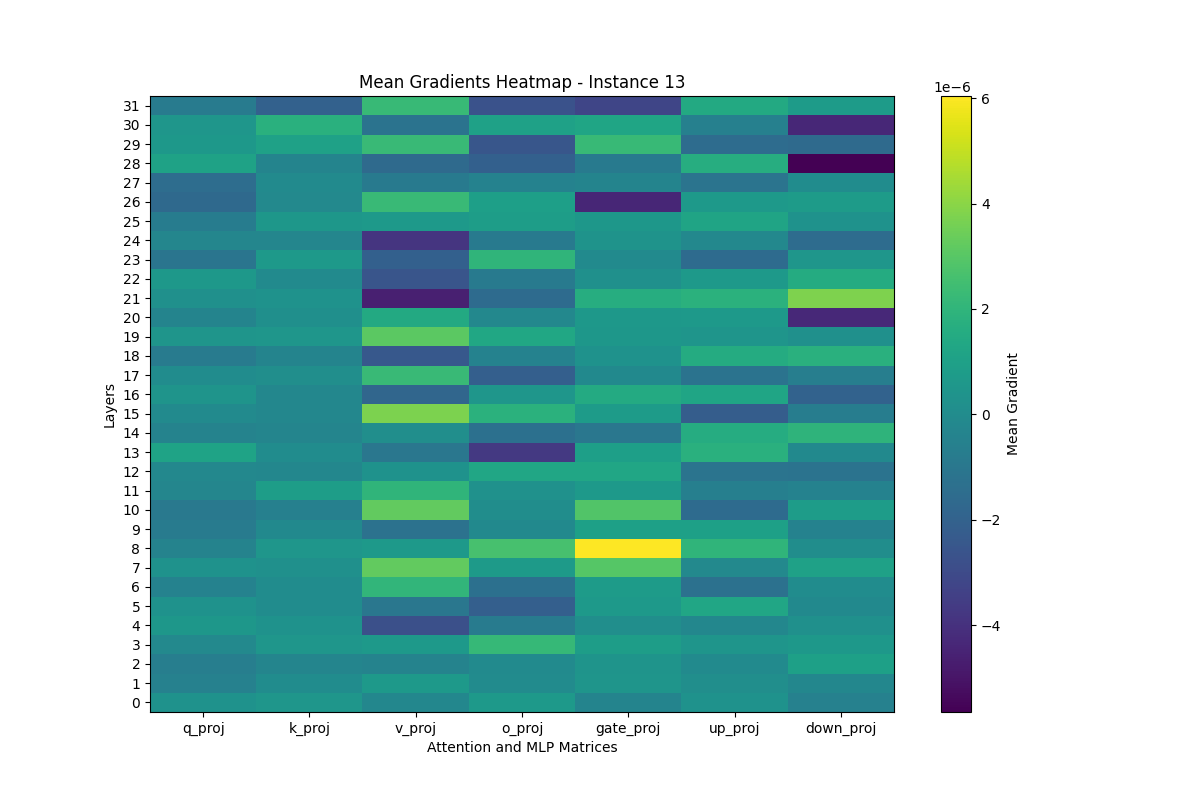
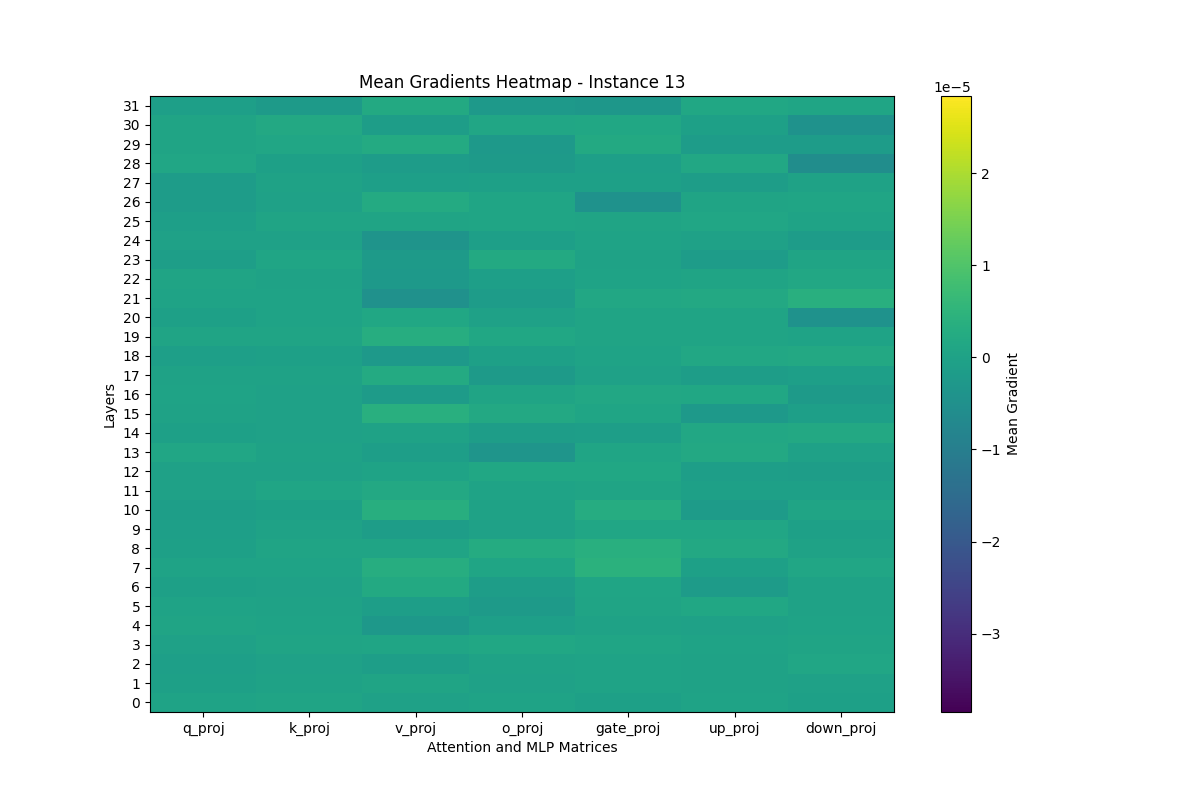
100 HEATMAPS

diff --git a/olmo2_loss_contribution.py b/olmo2_loss_contribution.py
@@ -18,7 +18,7 @@ model = AutoModelForCausalLM.from_pretrained(
 dataset = load_dataset("lighteval/MATH", trust_remote_code=True)["test"]
 output_dir = "heatmaps"
 os.makedirs(output_dir, exist_ok=True)
-num_instances = 5
+num_instances = 100
 global_min = float('inf')
 global_max = float('-inf')
 
@@ -84,6 +84,7 @@ for instance_idx in tqdm(range(num_instances)):
             mean_grad = grad.mean()
             layer_means.append(mean_grad)
         instance_means.append(layer_means)
+    model.zero_grad()
 
     # Convert the list of lists to a tensor
     instance_means_tensor = torch.tensor(instance_means)
@@ -100,7 +101,8 @@ for instance_idx in tqdm(range(num_instances)):
 # averaged_dataset_means = cross_dataset_means_tensor.mean(dim=0)
 # print(averaged_dataset_means.shape)
 
-    # Plot the heatmap
+# Plot the heatmap for each instance with consistent color scale
+for instance_idx, instance_means_tensor in enumerate(cross_dataset_means):
     plt.figure(figsize=(12, 8))
     plt.title(f"Mean Gradients Heatmap - Instance {instance_idx + 1}")
     plt.imshow(instance_means_tensor, cmap='viridis', aspect='auto', vmin=global_min, vmax=global_max)
@@ -110,7 +112,6 @@ for instance_idx in tqdm(range(num_instances)):
     plt.gca().invert_yaxis()  # Invert y-axis to start layers at 0 at the bottom
     plt.xticks(ticks=range(7), labels=['q_proj', 'k_proj', 'v_proj', 'o_proj', 'gate_proj', 'up_proj', 'down_proj'])
     plt.yticks(ticks=range(32), labels=range(32))
-    # plt.show()
     plt.savefig(os.path.join(output_dir, f"heatmap_{instance_idx + 1}.png"))
     plt.close()
 
@@ -121,6 +122,6 @@ for instance_idx in range(num_instances):
     images.append(imageio.imread(image_path))
 
 gif_path = os.path.join(output_dir, f"mean_gradients_heatmaps_{num_instances}.gif")
-imageio.mimsave(gif_path, images, duration=2)
+imageio.mimsave(gif_path, images, duration=2)  # Increase duration to 2 seconds per frame
 
 print(f"GIF saved at {gif_path}")
